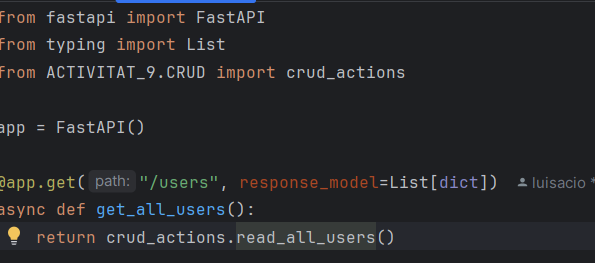
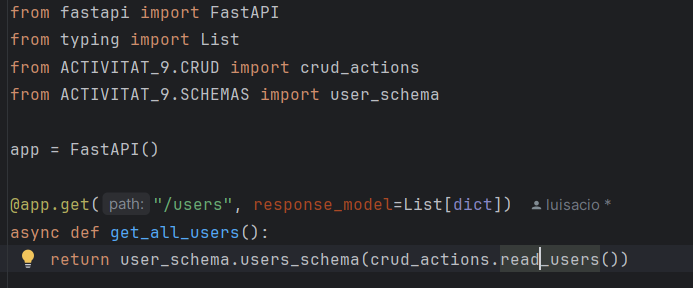
edit arxius per treballar correctament amb schema.

diff --git a/ACTIVITAT_9/CRUD/crud_actions.py b/ACTIVITAT_9/CRUD/crud_actions.py
@@ -1,12 +1,11 @@
 from ACTIVITAT_9.DB_CONNECT import bbdd_management
 
-def read_all_users():
+def read_users():
     cur_conn = bbdd_management.connect_to_bbdd()
 
     cur_conn[0].execute("""SELECT ID,NAME FROM public.users ORDER BY id ASC  """)
     users = cur_conn[0].fetchall()
-    users_dicc = [{"id": item[0], "name": item[1]} for item in users]
     cur_conn[0].close()
     cur_conn[1].close()
 
-    return users_dicc
+    return users

diff --git a/main.py b/main.py
@@ -1,9 +1,10 @@
 from fastapi import FastAPI
 from typing import List
 from ACTIVITAT_9.CRUD import crud_actions
+from ACTIVITAT_9.SCHEMAS import user_schema
 
 app = FastAPI()
 
 @app.get("/users", response_model=List[dict])
 async def get_all_users():
-    return crud_actions.read_all_users()
+    return user_schema.users_schema(crud_actions.read_users())

diff --git a/ACTIVITAT_9/SCHEMAS/user_schema.py b/ACTIVITAT_9/SCHEMAS/user_schema.py
@@ -1,6 +1,6 @@
-from pydantic import BaseModel, Field
-from typing import Optional
+def user_schema(user):
+    return {"id":user[0],
+            "name":user[1]}
 
-class User(BaseModel):
-    id: int = Field()
-    name: Optional[str] = None
+def users_schema(list_users):
+    return [user_schema(user) for user in list_users]

diff --git a/README.md b/README.md
@@ -35,8 +35,8 @@
 ### Arxiu connexio
 ![Arxiu connexio](https://github.com/luisacio/UF2_FASTAPI/blob/activitat_9/ACTIVITAT_9/IMATGES/read_users/documentacio_9_3.png)
 
-### Funcio read_all_users
-![Funcio read_all_users](https://github.com/luisacio/UF2_FASTAPI/blob/activitat_9/ACTIVITAT_9/IMATGES/read_users/documentacio_9_7.png)
+### Funcio read_users
+![Funcio read_users](https://github.com/luisacio/UF2_FASTAPI/blob/activitat_9/ACTIVITAT_9/IMATGES/read_users/documentacio_9_7.png)
 
 ### Schema per usuari
 ![Schema per usuari](https://github.com/luisacio/UF2_FASTAPI/blob/activitat_9/ACTIVITAT_9/IMATGES/read_users/documentacio_9_4.png)
